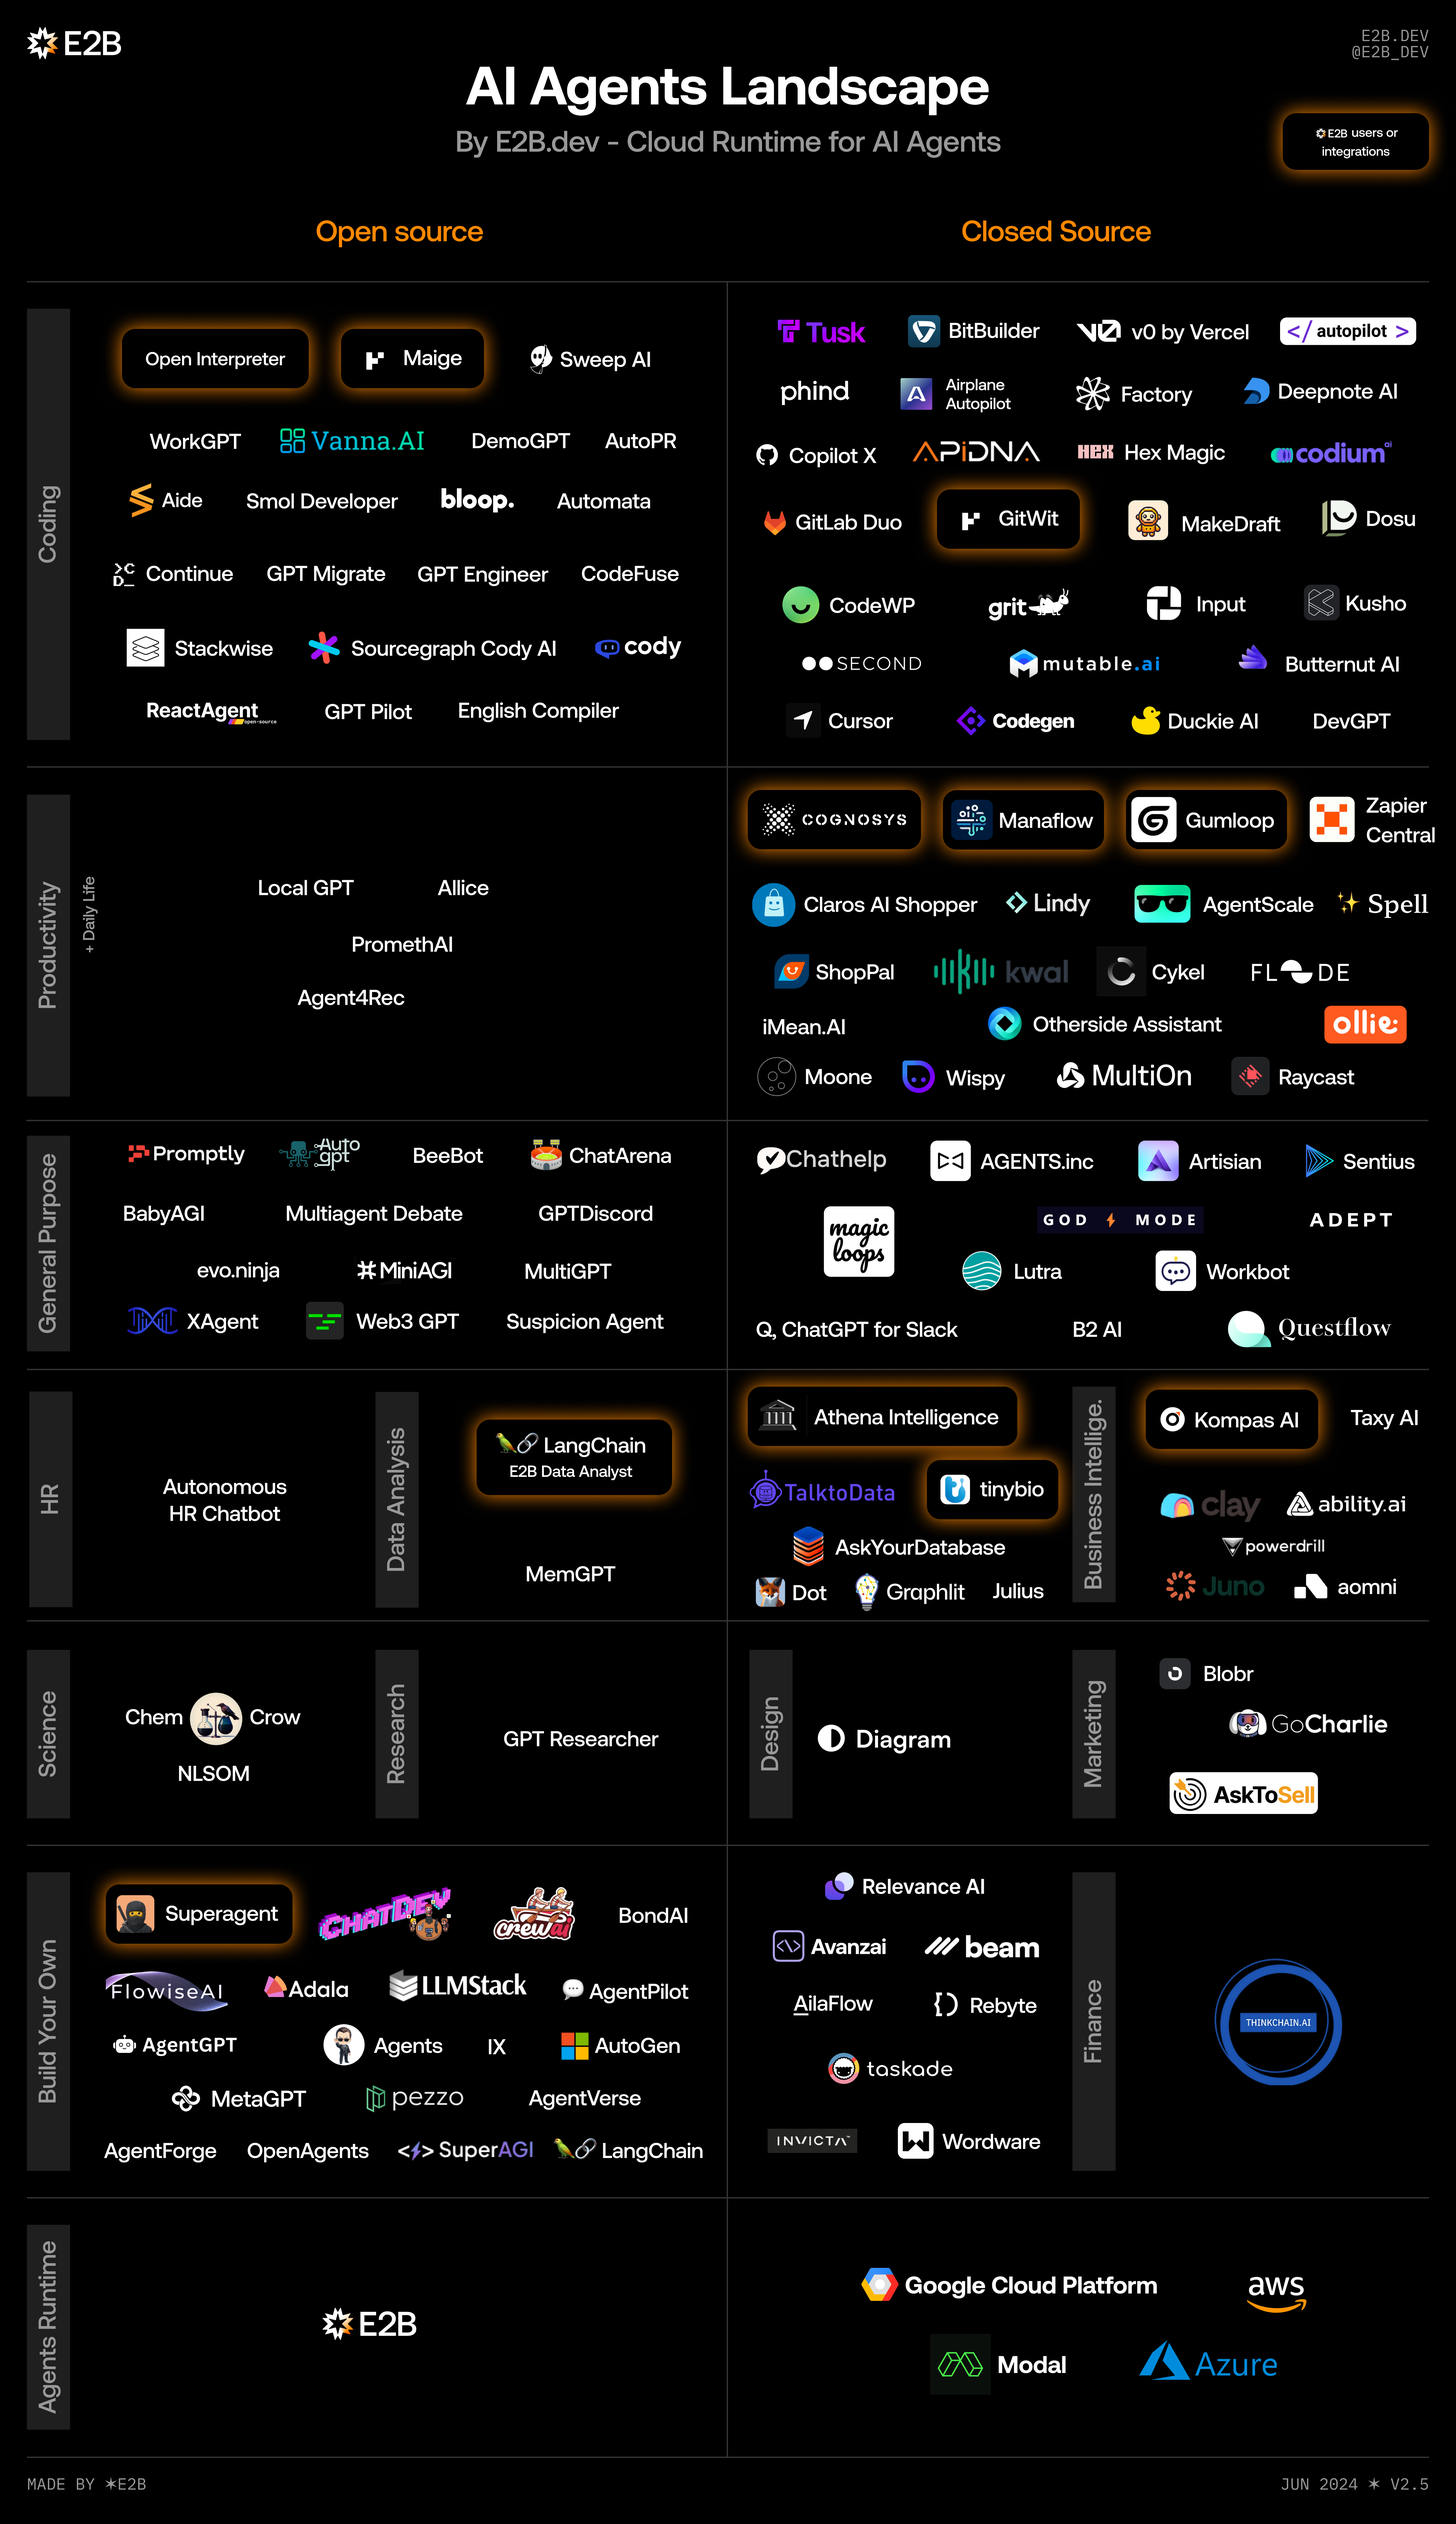
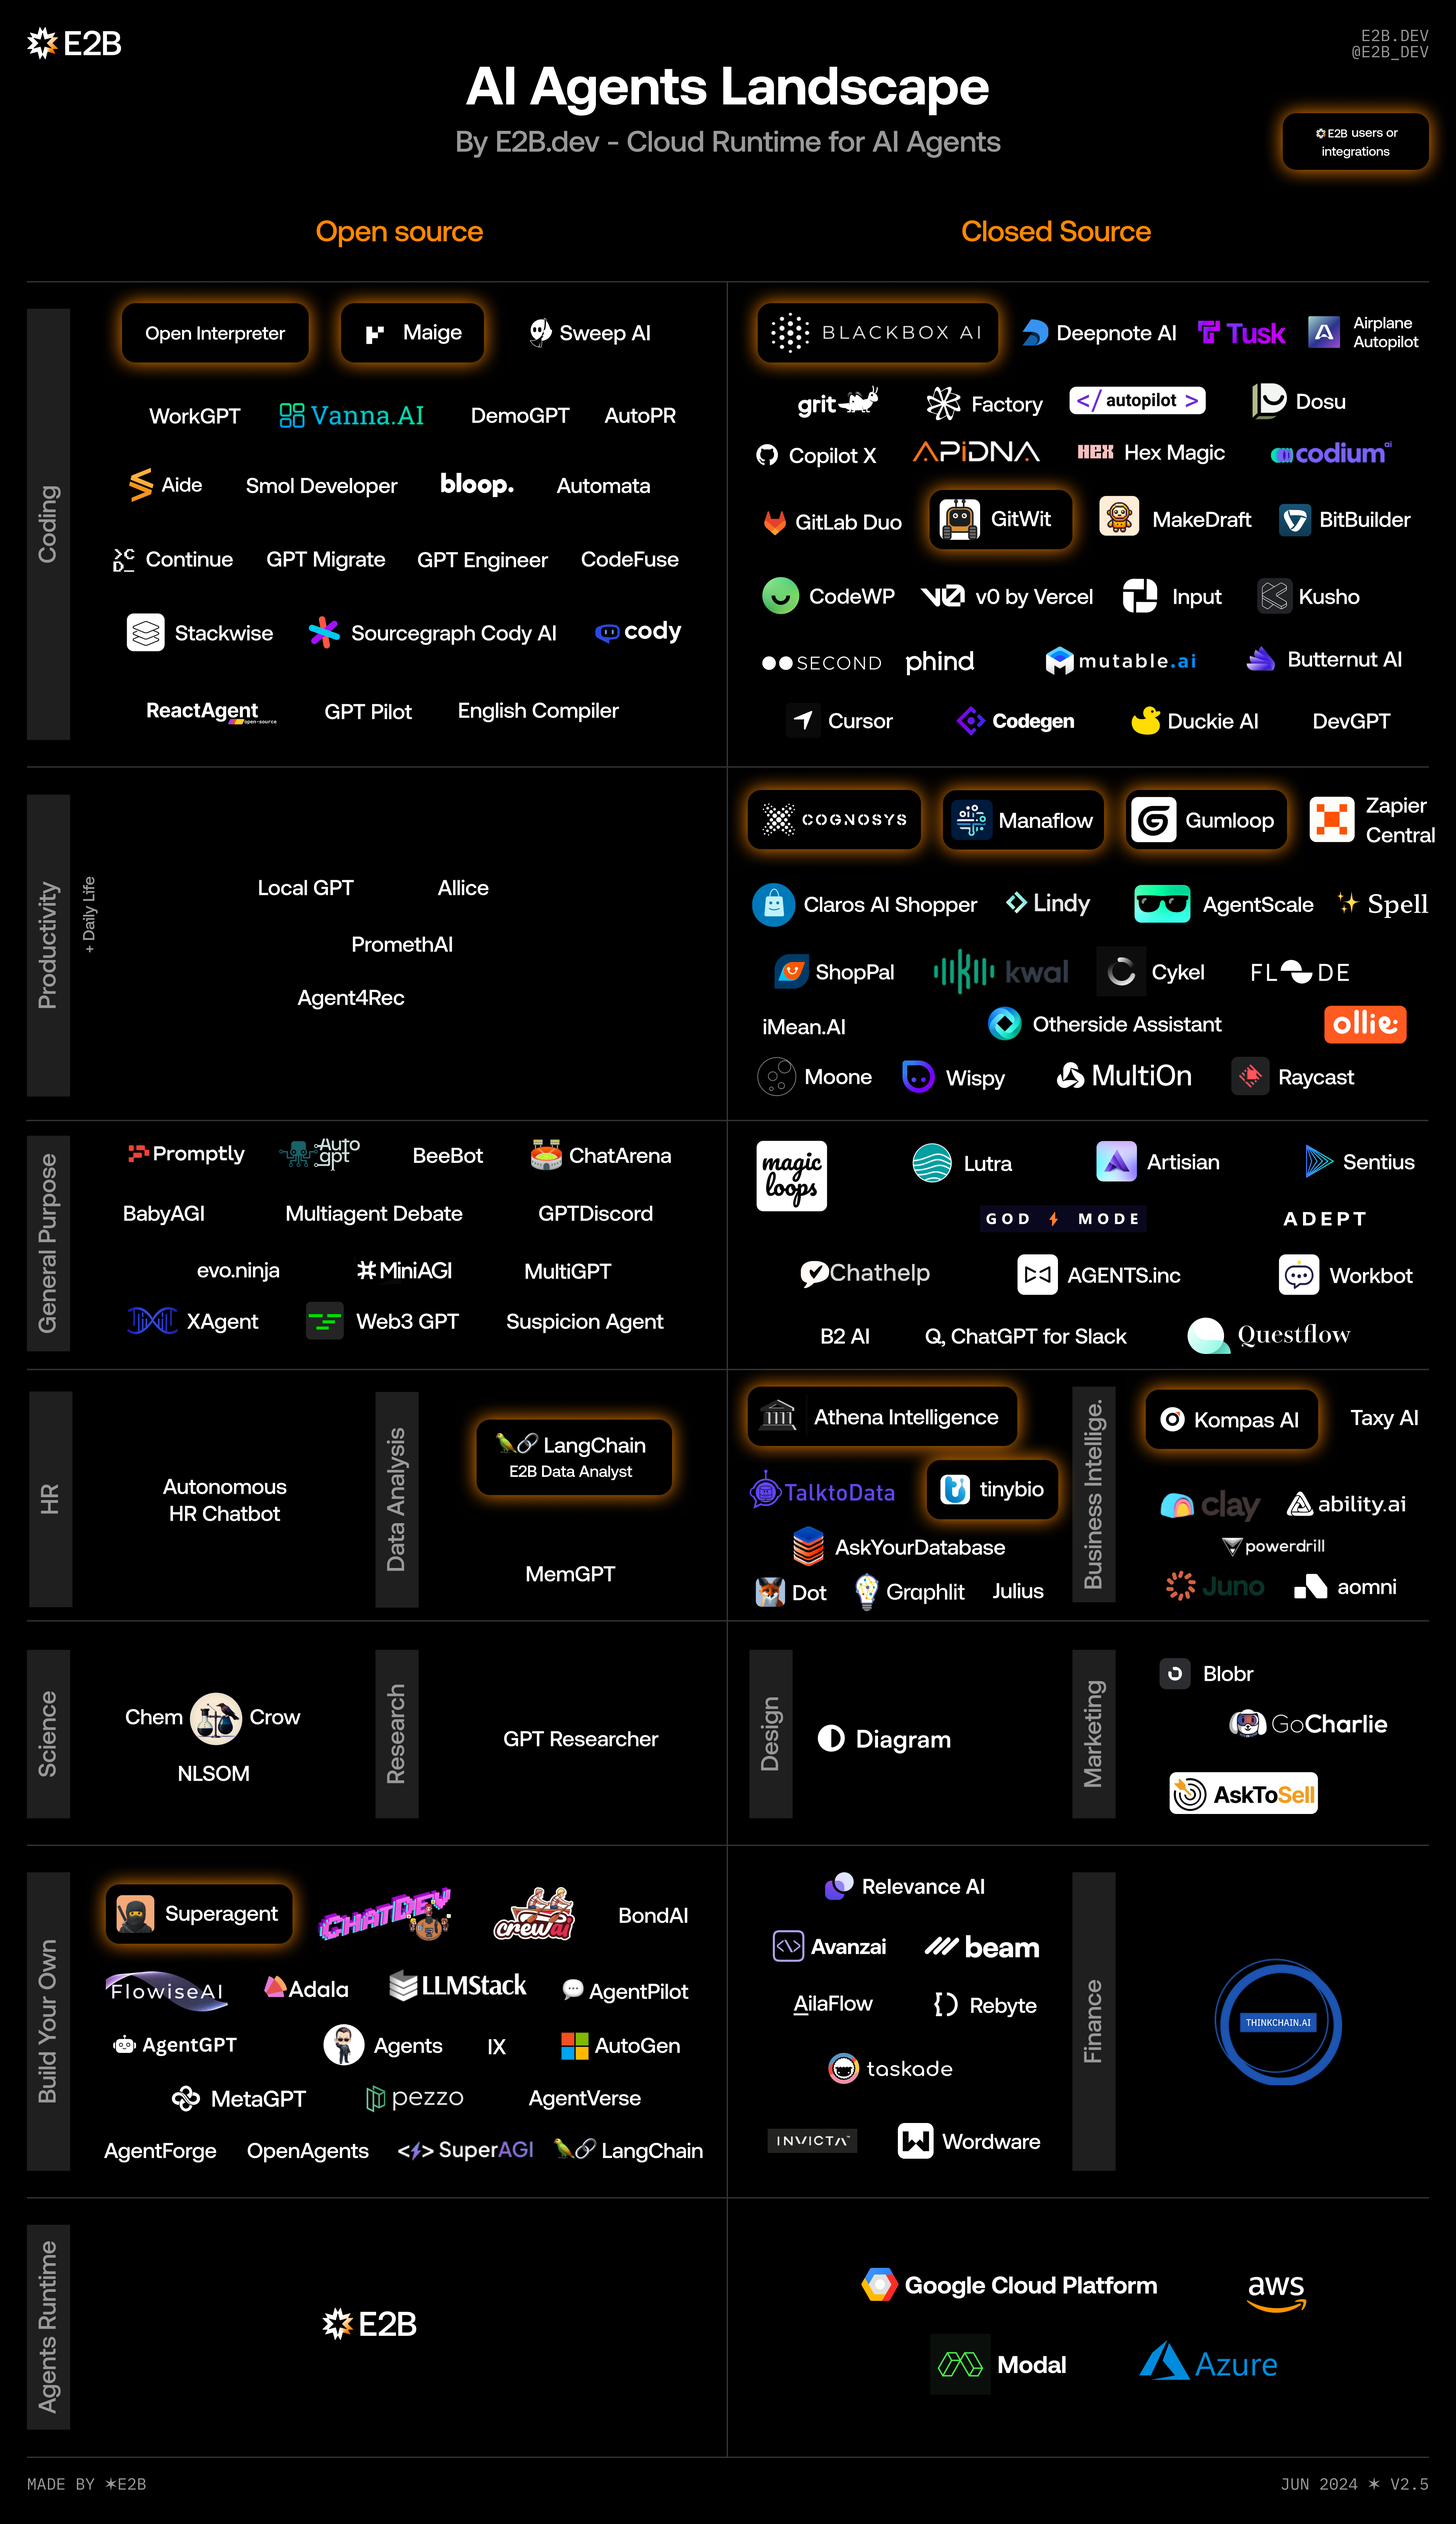
Add BLACKBOX AI

Changed region(s): [[0.0625, 0.0937, 0.4688, 0.2812], [0.5, 0.0937, 0.9688, 0.2812], [0.5, 0.4374, 0.9688, 0.5623]]

diff --git a/README.md b/README.md
@@ -3200,6 +3200,41 @@ Data analysis, Productivity, Build-your-own (agent-builing frameworks and platfo
 
 </details>
 
+## [Blackbox AI](https://www.blackbox.ai/)
+Software That Builds Software
+
+<details>
+
+![image](https://www.blackbox.ai/_next/image?url=%2F_next%2Fstatic%2Fmedia%2FBlackbox-Logo-4x.85cc4976.png&w=384&q=75)
+
+### Category
+- General purpose, coding, data analysis
+
+### Description
+- BLACKBOX.AI is a coding LLM designed to transform the way we build software.
+
+By building BLACKBOX.AI, our goal is to:
+
+1. Accelerate the pace of innovation within companies by making engineers 10X faster in building and releasing products
+
+2. Accelerate the growth in software engineers around the world and 10X the number of engineers from ~100M to 1B
+
+
+### Links
+- [Web](https://www.blackbox.ai/)
+- [Blackbox AI Code Interpreter](https://www.runcode.ai/)
+- [Blackbox AI Code Interpreter in terminal](https://pypi.org/project/blackboxai/)
+- [X (Twitter)](https://x.com/aiblckbx?lang=cs)
+- [Facebook](https://www.facebook.com/blckbxai/)
+- [Chrome extension](https://chromewebstore.google.com/detail/mcgbeeipkmelnpldkobichboakdfaeon)
+
+Written about Blackbox:
+- [BLACKBOX AI vs Codium AI](https://medium.com/@blackbox.ai/blackbox-ai-vs-codium-ai-7016abb93ec0)
+- [Blackbox AI: Supercharging Your Coding Workflow](https://www.linkedin.com/pulse/blackbox-ai-supercharging-your-coding-workflow-swarup-mukharjee-5gqbe/)
+- [Unveiling the Untold Story of Blackbox.ai: A Revolution in Software Quality Assurance](https://www.linkedin.com/pulse/unveiling-untold-story-blackboxai-revolution-software-yaqoot-kashif-em75f/)
+
+</details>
+
 
 ## [Blobr](https://www.blobr.io/)
 AI business assistant connected to all your tools
